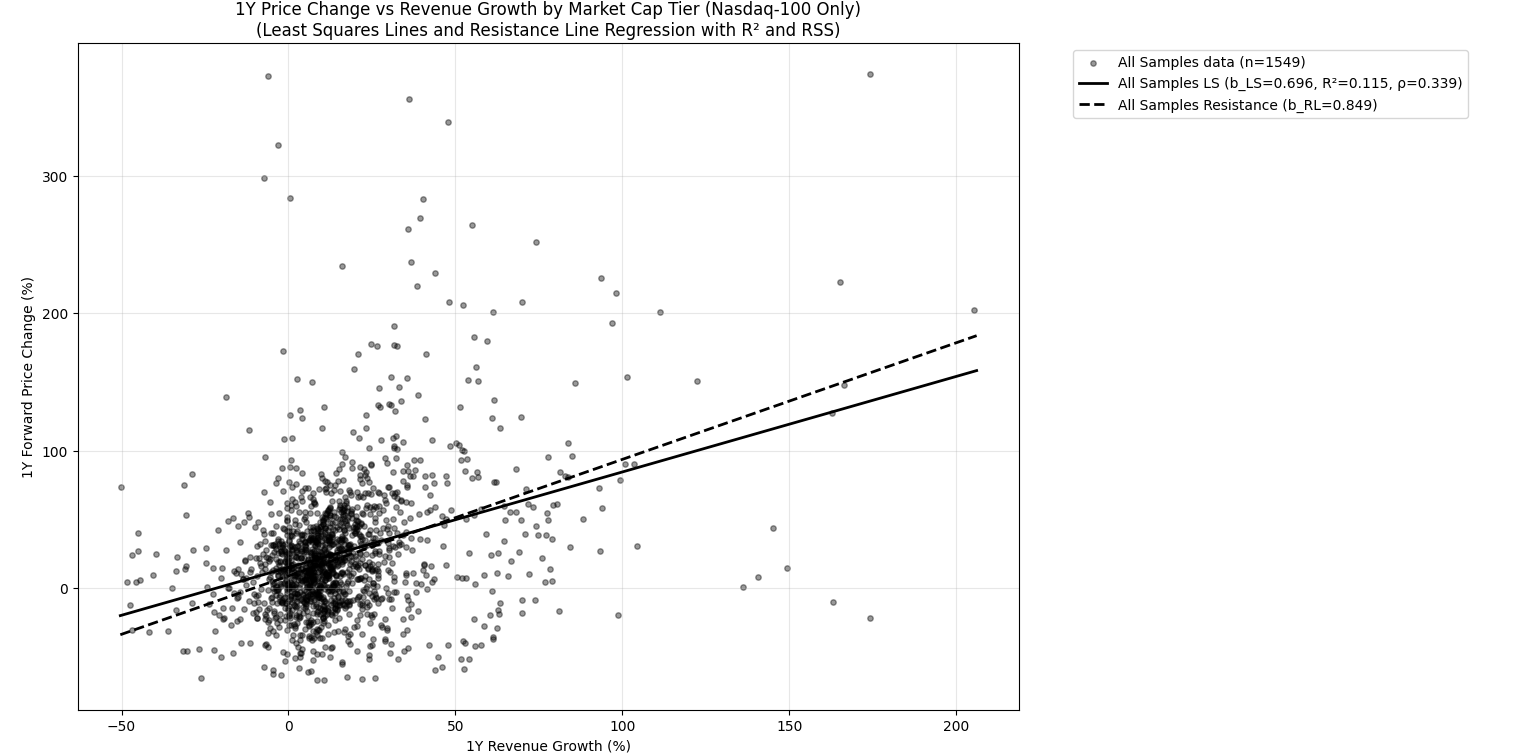
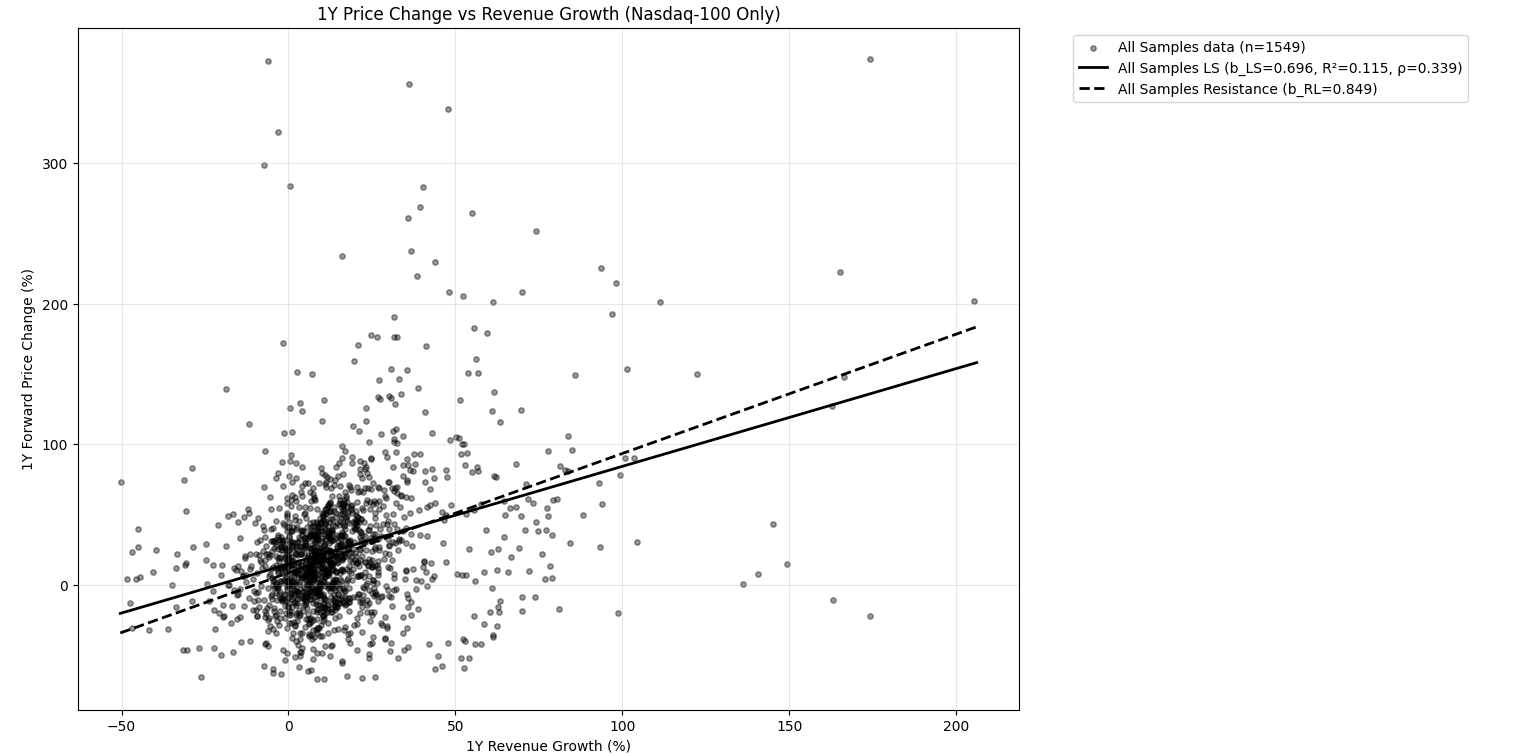
update dow nasdaq and s&p graphs

diff --git a/linear_regression/lr_by_market_cap_robust.py b/linear_regression/lr_by_market_cap_robust.py
@@ -415,12 +415,14 @@ def create_regression_plot(results, horizon_label, analysis_mode_name, x_axis_la
             ax.plot(fit_x, robust_fit_y, color=color, lw=2, linestyle='--',
                     label=f"{name} Resistance (b_RL={r['robust_slope']:.3f})")
 
-    # Set labels and title
-    title = f"{horizon_label} Price Change vs {analysis_mode_name} by Market Cap Tier"
+    # Set labels and title    
+    title = f"{horizon_label} Price Change vs {analysis_mode_name}"
     if year_range:
         title += f" ({year_range})"
     if index_filter:
         title += f" ({index_filter} Only)"
+    else:
+        title += " by Market Cap Tier"
 
     ax.set_title(title)
     ax.set_xlabel(x_axis_label)
